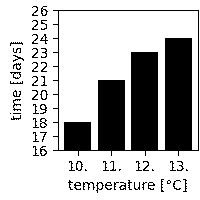
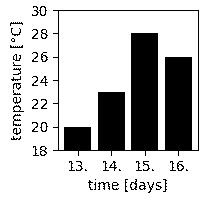
Update labels in examples (#50)

diff --git a/controller/custom_views/examplary_views/README.md b/controller/custom_views/examplary_views/README.md
@@ -312,7 +312,7 @@ View uses additional packages:
 
 ![WeatherForecastHourlyView](/controller/custom_views/examplary_views/images/WeatherForecastHourlyView.jpg)
 
-    examplary_views.WeatherForecastHourlyView(name='WeatherForecastHourlyView', interval=600, figsize=(2, 2), x_label='temperature [°C]', y_label='time [hours]', plot_adjustment=(0.29, 0.25, 0.99, 0.95), timestamps=5, hours_additive=True)
+    examplary_views.WeatherForecastHourlyView(name='WeatherForecastHourlyView', interval=600, figsize=(2, 2), x_label='time [hours]', y_label='temperature [°C]', plot_adjustment=(0.29, 0.25, 0.99, 0.95), timestamps=5, hours_additive=True)
 
 ![WeatherForecastHourlyView 2](/controller/custom_views/examplary_views/images/WeatherForecastHourlyView%202.jpg)
 
@@ -336,7 +336,7 @@ View uses additional packages:
 
 ![WeatherForecastDailyView](/controller/custom_views/examplary_views/images/WeatherForecastDailyView.jpg)
 
-    examplary_views.WeatherForecastDailyView(name='WeatherForecastDaily', interval=600, figsize=(2, 2), x_label='temperature [°C]', y_label='time [days]', plot_adjustment=(0.29, 0.25, 0.99, 0.95), max_days=4, mode='max')
+    examplary_views.WeatherForecastDailyView(name='WeatherForecastDaily', interval=600, figsize=(2, 2), x_label='time [days]', y_label='temperature [°C]', plot_adjustment=(0.29, 0.25, 0.99, 0.95), max_days=4, mode='max')
 
 ![WeatherForecastDailyView 2](/controller/custom_views/examplary_views/images/WeatherForecastDailyView%202.jpg)
 
